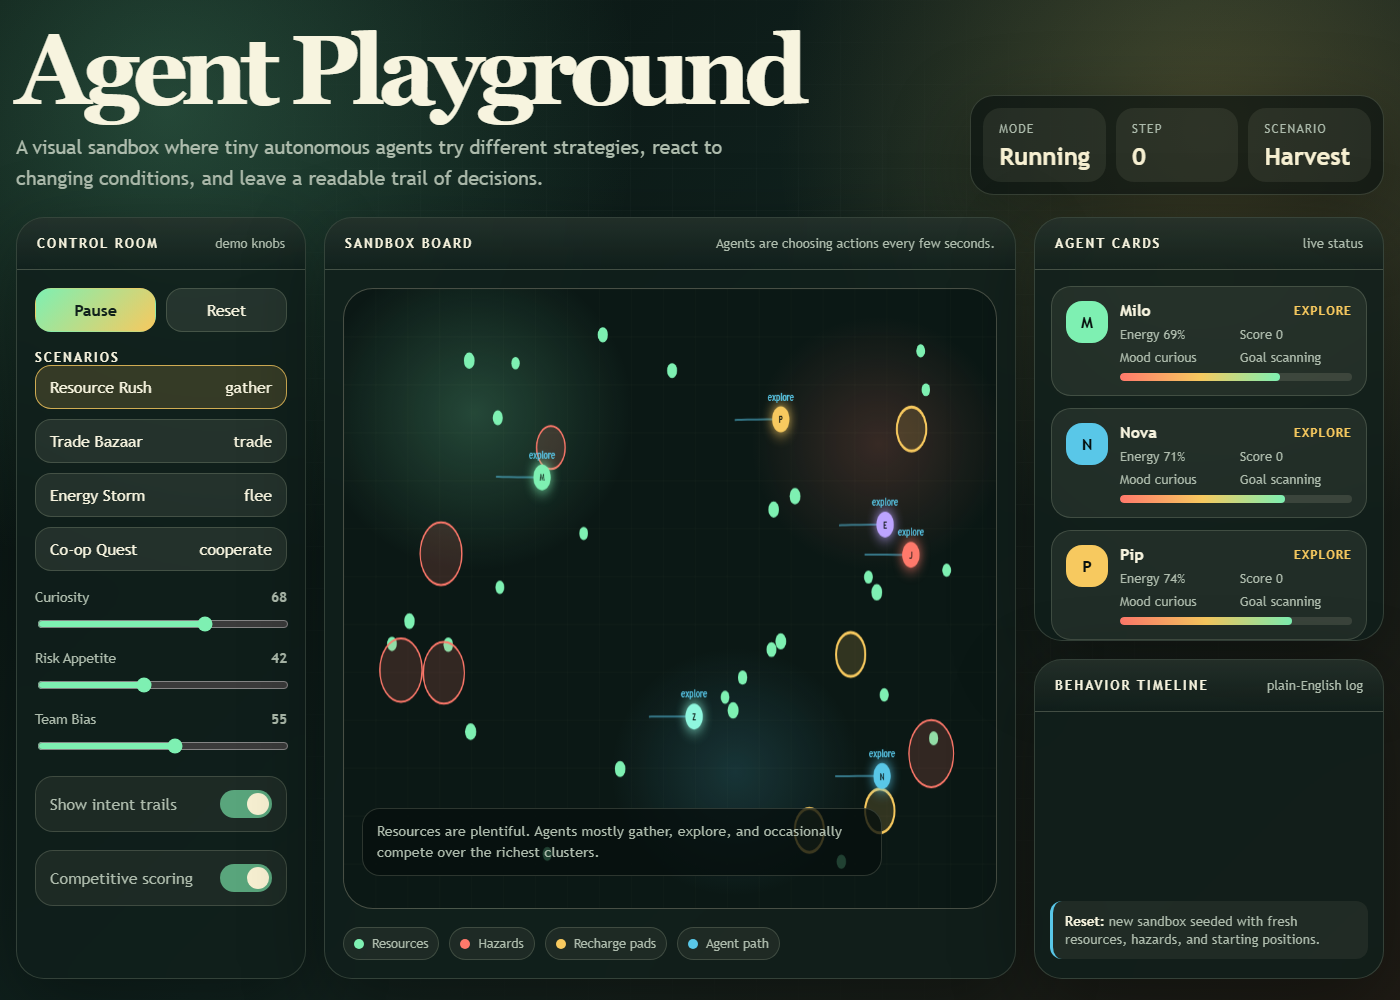
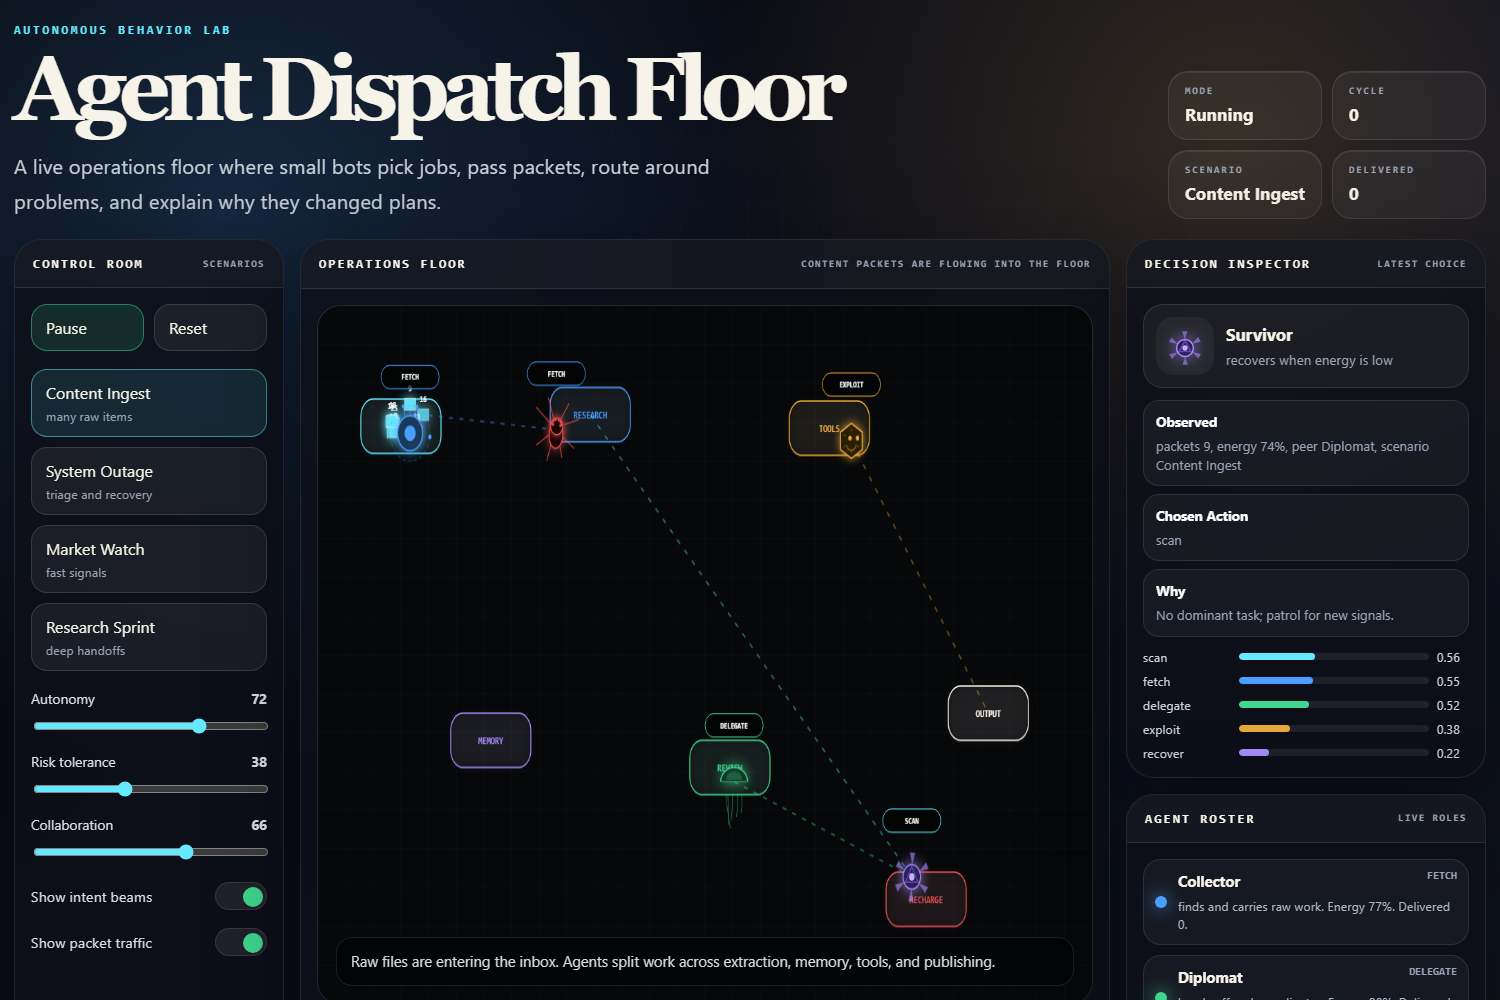
Refresh Agent Playground portfolio card

diff --git a/index.html b/index.html
@@ -1082,13 +1082,13 @@
                 </div>
                 <h3 class="project-name">agent-playground</h3>
                 <p class="project-summary">
-                  A visual sandbox where small autonomous agents choose strategies,
-                  move around a shared board, react to resources and hazards, and
-                  leave a plain-English trail of decisions.
+                  A dispatch-floor simulation where small autonomous bots pick jobs,
+                  carry packets, hand work to each other, recover when energy is low,
+                  and explain why they changed plans.
                 </p>
                 <p class="project-why">
-                  I wanted a lighter way to explore agent behavior: not a research
-                  demo, just a place to watch simple rules turn into visible action.
+                  I wanted a clearer way to show autonomous behavior: agents observing
+                  the floor, scoring options, choosing an action, and making the result visible.
                 </p>
               </div>
               <div class="project-footer">
@@ -1112,7 +1112,7 @@
             <div class="project-visual">
               <img src="images/agent-playground.png"
                    class="project-img"
-                   alt="Agent Playground simulation dashboard"
+                   alt="Agent Dispatch Floor simulation dashboard"
                    onerror="this.style.display='none';this.nextElementSibling.style.display='flex'" />
               <div class="project-screenshot" style="display:none">
                 <svg class="screenshot-icon" width="28" height="28" viewBox="0 0 24 24" fill="none"><rect x="3" y="5" width="18" height="14" rx="2" stroke="currentColor" stroke-width="1.4"/><path d="M7 9h2M7 12h4" stroke="currentColor" stroke-width="1.4" stroke-linecap="round"/></svg>